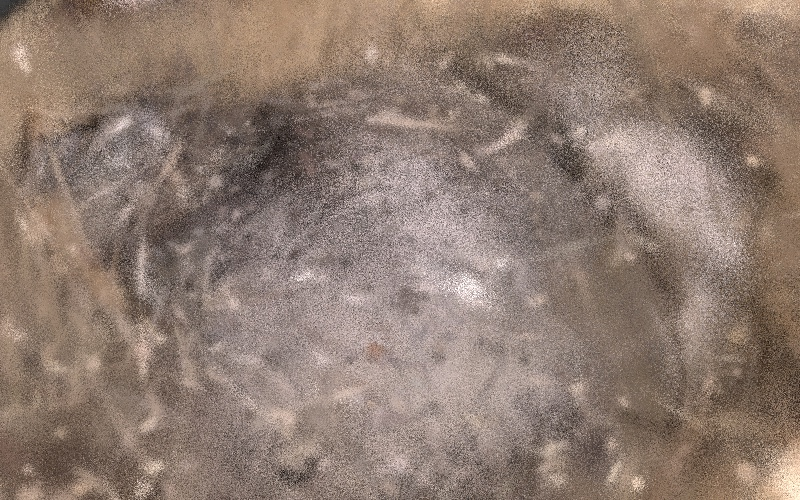
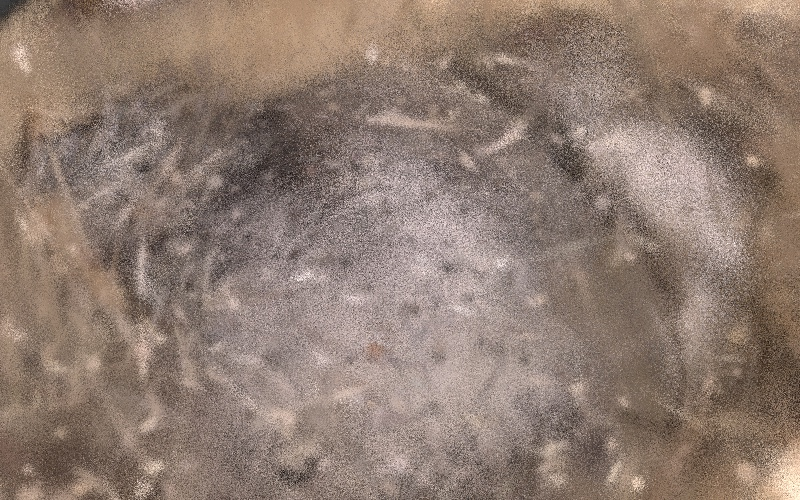
Rebuild Spot Heal as an automatically sourced, colour-matched clone
The old Spot Heal removed everything under the brush (in Through mode the
whole thickness of the body) and regrew a single sheet, and its 'already
covered' test counted deeper layers as surface, so it mostly left holes.
It now works like Photoshop's spot healing brush: it tries eight nearby
patches around the painted area, picks the one facing the same way whose
surroundings best match the spot's colour and density, and clones it over
the spot with Replace, feathering and colour matching. Only the surface
layer is replaced, so Surface/Through no longer matters.

Checked on the 716k-splat bee_for cropping scan: the removed splats sit in
the surface layer only (within 0.008 / the top 0.011-0.025 on two spots)
and the replacement sits level with them, with no holes.

diff --git a/gs_patch/ops.py b/gs_patch/ops.py
@@ -54,7 +54,7 @@ HELP = {
     'SELECT': "LMB select · hold Option/Alt (or Ctrl) to deselect",
     'CLONE': "Ctrl+LMB set sample · LMB clone",
     'HEAL': "Ctrl+LMB set sample · LMB heal",
-    'SPOT': "LMB paint over blemish",
+    'SPOT': "LMB paint over the blemish; a matching nearby patch is cloned over it",
 }
 
 
@@ -243,8 +243,11 @@ class GSP_OT_brush(bpy.types.Operator):
         S = self.S
         R = self.radius
         feather = p.feather
-        if p.tool == 'BRIDGE':
+        if p.tool in {'BRIDGE', 'SPOT'}:
             self.bridge_centres.append((mx, my))
+            if p.tool == 'SPOT' and self.hit is not None:
+                self.spot_dabs.append((self.hit_anchor.copy(), self.hit_normal.copy(), self.radius,
+                                       self.view_dir.copy()))
         elif p.tool == 'RESTORE':
             self.restore_dab(context, mx, my)
         elif p.tool in PAINT_TOOLS:
@@ -368,6 +371,7 @@ class GSP_OT_brush(bpy.types.Operator):
                         self.offset = self.hit - src
                 self.stroke = core.Stroke(self.S)
                 self.bridge_centres = []
+                self.spot_dabs = []
                 self.rs_remove = np.zeros(self.S.n, bool)
                 self.rs_unfade = np.zeros(self.S.n, bool)
                 self.rs_restore = np.zeros(0 if self.T is None else self.T.n, bool)
@@ -398,13 +402,7 @@ class GSP_OT_brush(bpy.types.Operator):
             elif p.tool == 'RESTORE':
                 self.end_restore(context)
             elif p.tool == 'SPOT':
-                if not st.hole.any():
-                    return
-                removed, added, msg = core.heal_fill(
-                    S, st.hole, border=p.border_width, roughness=p.roughness,
-                    color_smooth=p.color_smooth, density=p.density, seed=int(time.time()))
-                self.report({'INFO'}, f"{msg}: -{removed} +{added}")
-                self.rev = commit(context, self.obj, S, "Splat spot heal")
+                self.end_spot(context)
             else:
                 faded_before = int(S.faded.sum())
                 removed, added = st.commit_clones_and_erase(p.use_opacity_feather)
@@ -591,12 +589,82 @@ class GSP_OT_brush(bpy.types.Operator):
             S, ring, near, in_footprint, toward, edge=edge, roughness=p.roughness, color_smooth=p.color_smooth,
             density=p.density, source=source, heal=p.heal_strength, feather=p.feather,
             seed=int(time.time()))
-        self.last_bridge = (len(ring), added, msg)
-        if added == 0:
+        self.last_bridge = (len(ring), removed, added, msg)
+        if added == 0 and removed == 0:
             self.report({'WARNING'}, msg)
             return
         self.report({'INFO'}, f"{msg}: +{added} splats")
         self.rev = commit(context, self.obj, S, "Splat bridge")
+
+    def end_spot(self, context):
+        """Spot Heal: clone a nearby patch over the spot and match its colour to the spot's surroundings.
+
+        Like Photoshop's spot healing brush, the source is chosen automatically: eight
+        candidate patches around the painted area are tried, and the one whose surface
+        faces the same way and whose surroundings best match the spot's is cloned in,
+        replacing what was under the brush with a feathered, colour-matched patch.
+        """
+        p = props_of(context)
+        S = self.S
+        dabs = self.spot_dabs
+        if not dabs:
+            self.report({'WARNING'}, "Paint over the surface to heal it")
+            return
+        anchors = np.array([d[0] for d in dabs], np.float32)
+        normals = np.array([d[1] for d in dabs], np.float32)
+        R = float(np.median([d[2] for d in dabs]))
+        cd0 = anchors.mean(0)
+        nd0 = normals.mean(0)
+        nd0 /= max(np.linalg.norm(nd0), 1e-9)
+        extent = float(np.max(np.linalg.norm(anchors - cd0, axis=1))) if len(anchors) > 1 else 0.0
+        reach = extent + R
+        t1 = np.cross(nd0, [0.0, 0.0, 1.0] if abs(nd0[2]) < 0.9 else [1.0, 0.0, 0.0])
+        t1 /= np.linalg.norm(t1)
+        t2 = np.cross(nd0, t1)
+        target = core.ring_mean_dc(S, cd0, reach)
+        # How much surface the spot itself has: a source must have a comparable amount.
+        own = S.near(cd0, reach)
+        own = own[S.visible[own] & (S.opacity[own] > 0.2) & (np.linalg.norm(S.pos[own] - cd0, axis=1) < reach)]
+        need = max(3, int(0.4 * len(own)))
+        dens_d = None
+        best = None
+        for dist in (reach + 1.5 * R, reach + 3.0 * R):
+            for k in range(8):
+                ang = 2 * np.pi * k / 8
+                probe = cd0 + (np.cos(ang) * t1 + np.sin(ang) * t2) * dist
+                cs, ns = core.surface_frame(S, probe, R, -nd0)
+                facing = float(np.dot(ns, nd0))
+                if facing < 0.6:
+                    continue
+                cand = S.near(cs, reach)
+                live = cand[S.visible[cand] & (S.opacity[cand] > 0.2)]
+                live = live[np.linalg.norm(S.pos[live] - cs, axis=1) < reach]
+                if len(live) < need:
+                    continue
+                if dens_d is None:
+                    cand_d = S.near(cd0, reach * 1.6)
+                    dd = np.linalg.norm(S.pos[cand_d] - cd0, axis=1)
+                    ring_d = cand_d[(dd > reach) & (dd < reach * 1.6) & S.visible[cand_d] & (S.opacity[cand_d] > 0.2)]
+                    area = np.pi * ((reach * 1.6) ** 2 - reach ** 2)
+                    dens_d = max(len(ring_d) / area, 1e-9)
+                dens_s = len(live) / (np.pi * reach ** 2)
+                colour = core.ring_mean_dc(S, cs, reach)
+                cdiff = 0.0 if (target is None or colour is None) else float(np.linalg.norm(colour - target))
+                score = cdiff + 0.5 * abs(np.log(dens_s / dens_d)) + 0.5 * (1 - facing)
+                if best is None or score < best[0]:
+                    best = (score, cs, dist)
+        if best is None:
+            self.report({'WARNING'}, "No similar surface nearby to heal from; try Bridge or Clone")
+            return
+        offset = best[1] - cd0
+        st = core.Stroke(S)
+        for anc, nrm, r_, vd in dabs:
+            cs, ns = core.surface_frame(S, anc + offset, r_, vd)
+            st.clone(cs, ns, anc, nrm, r_, max(p.feather, 0.25), replace=True, heal=p.heal_strength)
+        removed, added = st.commit_clones_and_erase(True)
+        self.spot_source = best[1]
+        self.report({'INFO'}, f"Healed from a nearby patch: replaced {removed}, added {added}")
+        self.rev = commit(context, self.obj, S, "Splat spot heal")
 
     # ---------------------------------------------------------- drawing
     def draw_overlay(self):
@@ -635,11 +703,6 @@ class GSP_OT_brush(bpy.types.Operator):
                                             0.15 * np.ones_like(a), 0.35 + 0.6 * a]).astype(np.float32)
                     pos, rgba = view.cap(S.pos[idx], rgba)
                     ov.points.append((pos, rgba, 2.0))
-            elif tool == 'SPOT':
-                idx = np.nonzero(st.hole)[0]
-                if len(idx):
-                    pos, rgba = view.cap(S.pos[idx], view.solid_rgba(len(idx), (1.0, 0.2, 0.8, 0.8)))
-                    ov.points.append((pos, rgba, 2.0))
             elif tool in {'CLONE', 'HEAL'}:
                 pos, rgb = st.clone_preview()
                 if pos is not None:
@@ -647,7 +710,7 @@ class GSP_OT_brush(bpy.types.Operator):
                     pos, rgba = view.cap(pos, rgba)
                     ov.points.append((pos, rgba, 2.5))
 
-        if self.hit is not None and tool != 'BRIDGE':
+        if self.hit is not None and tool not in {'BRIDGE', 'SPOT'}:
             R = self.radius
             n = self.hit_normal
             col = {'ERASE': (1.0, 0.3, 0.3), 'SELECT': (1.0, 0.6, 0.1), 'CLONE': (0.3, 0.9, 0.4),
@@ -708,12 +771,13 @@ class GSP_OT_brush(bpy.types.Operator):
                 if p.feather > 0:
                     view.draw_screen_ring(cx, cy, p.radius_px * (1 - p.feather), (1.0, 1.0, 1.0, 0.45))
                 return
-            if p.tool == 'BRIDGE':
+            if p.tool in {'BRIDGE', 'SPOT'}:
+                col = (0.3, 0.8, 1.0) if p.tool == 'BRIDGE' else (1.0, 0.35, 0.9)
                 if self.stroke is not None:
-                    view.draw_screen_discs(self.bridge_centres, p.radius_px, (0.3, 0.8, 1.0, 0.25))
-                view.draw_screen_ring(self.mouse[0], self.mouse[1], p.radius_px, (0.3, 0.8, 1.0, 0.9))
+                    view.draw_screen_discs(self.bridge_centres, p.radius_px, (*col, 0.25))
+                view.draw_screen_ring(self.mouse[0], self.mouse[1], p.radius_px, (*col, 0.9))
                 view.draw_screen_ring(self.mouse[0], self.mouse[1], p.radius_px * (1 + p.bridge_rim),
-                                      (0.3, 0.8, 1.0, 0.35))
+                                      (*col, 0.35))
                 return
             if self.hit is not None or p.tool not in PAINT_TOOLS | {'RESTORE'}:
                 return

diff --git a/gs_patch/core.py b/gs_patch/core.py
@@ -716,10 +716,12 @@ def bridge_fill(S, ring, near, in_footprint, toward, edge=None, roughness=1.0, c
     surf = _Surface(pos, op, ring, toward, stiffness)
     grid = _Grid(np.stack([surf.u, surf.v], 1), 2.0 * spacing)
 
-    # Cells that already have surface on them: any splat close to the fitted height.
-    nu, nv, nh = surf.uvh(pos[near])
     mad = np.median(np.abs(surf.resid - np.median(surf.resid))) * 1.4826
     tol = max(2.0 * spacing, 3.0 * mad)
+    removed = 0
+
+    # Cells that already have surface on them: any splat close to the fitted height.
+    nu, nv, nh = surf.uvh(pos[near])
     on_surface = np.abs(nh - surf.height(nu, nv)) < tol
     occupied = grid.count(nu[on_surface], nv[on_surface]) > 0
     ring_cells = grid.count(surf.u, surf.v) > 0
@@ -728,12 +730,12 @@ def bridge_fill(S, ring, near, in_footprint, toward, edge=None, roughness=1.0, c
     cu, cv = grid.centres(all_ij).T
     painted = in_footprint(surf.point(cu, cv)).reshape(grid.dims)
     fill_ij = np.argwhere(painted & ~occupied)
-    if len(fill_ij) == 0:
-        return 0, 0, "The surface under the painted area is already covered"
     per_cell = len(ring) / max(np.count_nonzero(ring_cells), 1) * density
+    if len(fill_ij) == 0:
+        return removed, 0, "The surface under the painted area is already covered"
     src, overrides, msg = _populate(S, surf, grid, fill_ij, per_cell, np.zeros(S.n, bool), rng,
                                     source, None, roughness, color_smooth, heal, feather)
     if src is None:
-        return 0, 0, msg
+        return removed, 0, msg
     added = _append(S, src, overrides)
-    return 0, added, "Bridged from surroundings" if source is None else "Bridged from sample area"
+    return removed, added, "Bridged from surroundings" if source is None else "Bridged from sample area"

diff --git a/gs_patch/ui.py b/gs_patch/ui.py
@@ -111,8 +111,10 @@ class GSP_PT_brush(bpy.types.Panel):
         col.prop(p, "radius_px")
         col.prop(p, "feather", slider=True)
         col.prop(p, "spacing")
-        if p.tool in {'ERASE', 'SELECT', 'SPOT', 'RESTORE'}:
+        if p.tool in {'ERASE', 'SELECT', 'RESTORE'}:
             col.prop(p, "depth_mode", expand=True)
+        if p.tool == 'SPOT':
+            col.prop(p, "heal_strength", slider=True)
         if p.tool == 'RESTORE':
             col.prop(p, "restore_erased", toggle=True, icon='RECOVER_LAST')
             col.prop(p, "remove_added", toggle=True, icon='TRASH')

diff --git a/README.md b/README.md
@@ -83,7 +83,10 @@ Strokes don't create Blender undo steps (on big scans each would copy the whole 
   so highlights and sheen turn with the surface. *Aligned* keeps the offset between strokes.
   *Replace Destination* removes what was there, crossfading across the feather.
 - **Heal**: clones like Clone, then shifts the colour to match the ring around the destination.
-- **Spot Heal**: paint over a speck; it is deleted and new splats are grown from the surrounding surface.
+- **Spot Heal**: size the brush to cover the blemish (F) and paint over it. Like Photoshop's spot healing
+  brush, it picks a matching patch nearby by itself (same surface direction, similar surroundings), clones it
+  over the spot and matches the colour. It works on the front surface you're looking at, so Surface/Through
+  doesn't matter. For a hole that's already empty, use Bridge instead.
 ![Painting a bridge over the hole the pin left](docs/images/bridge.jpg)
 
 - **Bridge**: for a hole that is already empty (e.g. after erasing a pin). Look at the hole and paint over
